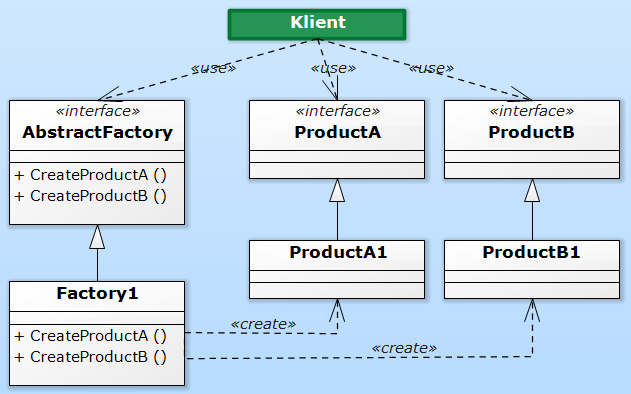
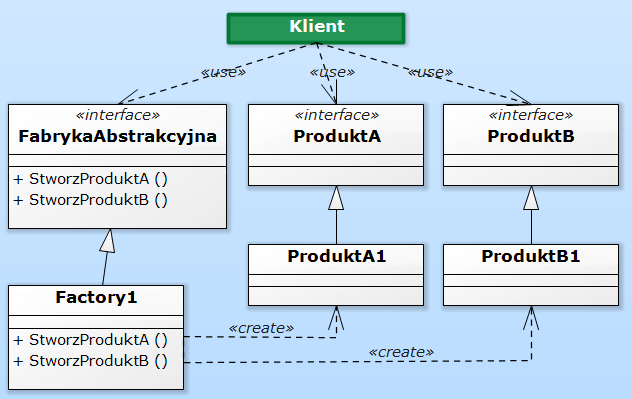
buffor for articles

Changed region(s): [[0.0, 0.0, 0.9937, 1.0], [0.6022, 0.1523, 0.7528, 0.2132], [0.271, 0.1523, 0.3914, 0.2132]]

diff --git a/_drafts/fabryka-abstrakcyjna.md b/_drafts/fabryka-abstrakcyjna.md
@@ -1,6 +1,6 @@
 ---
 layout: post
-title: "Wzorzce projektowe cz.2 - Fabryka Abstrakcyjna"
+title: "Wzorce  projektowe cz.2 - Fabryka Abstrakcyjna"
 feature-img: "assets/img/drafts/abstract-fabric/abstract-fabric.jpeg"
 tags: [Wzorce_projektowe]
 ---
@@ -8,47 +8,47 @@ tags: [Wzorce_projektowe]
 <h4 class="text-success">Fabryka abstrakcyjna (Abstract Fabric)<h4>
 <br>
 <font class="base-font-size">
-&nbsp;Wzorzec projektowy zaliczany do grópy kostrukcyjnych oraz obiektowych. Kluczową różnicą w stosunku do wzorca budowniczy który omówiłem w części pierwszej jest to że we wzorcu fabryki abstrakcyjnej kładziemy nacisk na implementację funkcjonalności a nie na samo tworzeniu obiektów. Funkcjonaności są dostarczane za pomocą interfejsów dlatego fabryka abstrakcyjna nadaje się do implementacji w aplikacjach łączących się ze zdalnym serwerem. 
+&nbsp;Wzorzec projektowy zaliczany do grupy konstrukcyjnych oraz obiektowych. Kluczową różnicą w stosunku do wzorca budowniczy, który omówiłem w części pierwszej, jest nacisk na implementację funkcjonalności, a nie na samo tworzeniu obiektów. Funkcjonalności są dostarczane za pomocą interfejsów, dlatego fabryka abstrakcyjna nadaje się do implementacji w aplikacjach łączących się ze zdalnym serwerem. 
 <br>
-Oczywiście nie jest to jedyny przypadek w którym warto zastosować ten wzorzec projektowy. Przeanalizujmy wspólnie przykład który przygotowałem. 
+Oczywiście nie jest to jedyny przypadek, kiedy warto zastosować ten wzorzec projektowy. Przeanalizujmy wspólnie przykład, który przygotowałem. 
 <br>
 <br>
 </font>
 <h4 class="text-success">Diagram<h4>
 <br>
 <font class="base-font-size">
-&nbsp;Na obrazku poniżej znajduje się wzorzec fabryka abstrakcyjna w formie modelu uml. Już na pierwszy rzut oka widać że komunikacja między klientem a częścią funkcjonalną kodu odbywa się przez warstwę abstrakcjii. Pozwala to bardziej skoncentrować się na implementacji funkcjonalności niż samym dostarczeniu obiektu. Jeżeli teorii masz już dosyć to czas na praktykę. 
-<img class="img-fluid img-thumbnail" src="../../../assets/img/drafts/abstract-fabric/diagram.jpeg" alt="Diagram - budowniczy">
+&nbsp;Na obrazku poniżej znajduje się wzorzec fabryka abstrakcyjna w formie modelu UML. Już na pierwszy rzut oka widać, że komunikacja między klientem a częścią funkcjonalną kodu odbywa się przez warstwę abstrakcji. Pozwala to bardziej skoncentrować się na implementacji funkcjonalności niż samym dostarczeniu obiektu. Jeżeli teorii masz już dosyć to czas na praktykę.
+<img class="img-fluid img-thumbnail" src="../../../assets/img/drafts/abstract-fabric/diagram.jpeg" alt="Diagram - Fabryka Abstrakcyjna">
 <br>
 <br>
 <br>
 </font>
-<h4 class="text-success">Praktyczne wykożystanie wzorca<h4>
+<h4 class="text-success">Praktyczne wykorzystanie wzorca<h4>
 <br>
 <font class="base-font-size">
 &nbsp;Przykładową implementację tego wzorca znajdziesz tutaj:
 <br>
 <a class="base-font-size" href="https://github.com/Rogoda/DesignPattern_AbstractFabric.git">
 https://github.com/Rogoda/DesignPattern_AbstractFabric.git</a>
-<br>Polecenie do przykładu: Stwórz model produkcji smarphonów i notebooków, który będzie można łatwo wrtożyć w różnych fabrykach.
+<br>Polecenie do przykładu: Stwórz model produkcji smartphonów i notebooków, który będzie można łatwo wróżyć w różnych fabrykach.
 <br>
 <br>
 </font>
 <h4 class="text-success">Część abstrakcyjna<h4>
 <br>
 <font class="base-font-size">
-&nbsp;W treści zadania wspomnmiałem że model produkcji ma umożliwić wyprodukowanie smarfphona lub notebooka, dlatego optymistycznie założyłem że każda fabryka kożystająca z naszej procedury produkcji będzie w stanie wyprodukować coś co później nazwimy smartphonem lub notebookiem niezależnie z jakich podzespołów będą składały się te użądzenia. Dlatego dla każdego typu użądzenia stworzę odpowiedni interfejs.
+&nbsp;W treści zadania wspomniałem, że model produkcji ma umożliwić wyprodukowanie smartphona lub notebooka, dlatego optymistycznie założyłem, że każda fabryka korzystająca z naszej procedury produkcji będzie w stanie wyprodukować coś, co później nazwiemy smartphonem lub notebookiem, niezależnie z jakich podzespołów będą składały się te urządzenia. Dlatego dla każdego typu urządzenia stworzę odpowiedni interfejs.
 <br>
 <img class="img-fluid img-thumbnail" src="../../../assets/img/drafts/abstract-fabric/ismartphone.jpeg" alt="ISmartphone">
 <img class="img-fluid img-thumbnail" src="../../../assets/img/drafts/abstract-fabric/inotebook.jpeg" alt="INotebook">
-<br>Idąc dalej tropem wcześniejszego wnioskowania, każda z fabryk może implementować nasz model produkcji co automatycznie prowokuje nas do reprezentowania modelu w postaci abstrakcyjnej.  
+<br>Idąc dalej tropem wcześniejszego wnioskowania, każda z fabryk może implementować nasz model produkcji, co automatycznie prowokuje nas do reprezentowania modelu w postaci abstrakcyjnej.  
 <img class="img-fluid img-thumbnail" src="../../../assets/img/drafts/abstract-fabric/irtvfabric.jpeg" alt="IRtvFabric">
 <br>
 <br>
 </font>
-<h4 class="text-success">Z abstrakcyjnego smartfona nie zadzwonisz<h4>
+<h4 class="text-success">Z abstrakcyjnego smartphona nie zadzwonisz<h4>
 <br>
-<font class="base-font-size">Myślę że to odpowiedni czas na implementacje naszych wirtualnych użądzeń.
+<font class="base-font-size">Myślę, że to odpowiedni czas na implementacje naszych wirtualnych urządzeń.
 <br>
 Przydadzą nam się w fabryce.
 <br>
@@ -60,21 +60,21 @@ Przydadzą nam się w fabryce.
 </font>
 <h4 class="text-success">Mają rozmach skur...<h4>
 <br>
-<font class="base-font-size">&nbsp;Nie śpimy tylko kodzimy, myślę że lepiej zademonstrujemy funkcjonalność modelu tworząc nie jedną a dwie implementacje fabryki, jedną w Chinach drógą w Korei.
+<font class="base-font-size">&nbsp;Nie śpimy tylko kodzimy, myślę, że lepiej zademonstrujemy funkcjonalność modelu, tworząc nie jedną a dwie implementacje fabryki, jedną w Chinach druga w Korei.
 <br>
 <img class="img-fluid img-thumbnail" src="../../../assets/img/drafts/abstract-fabric/chinesefabric.jpeg" alt="Fabric - China">
 <br>
 <img class="img-fluid img-thumbnail" src="../../../assets/img/drafts/abstract-fabric/koreanfabric.jpeg" alt="Fabric - Korea">
 <br>
-&nbsp;Dla każdej fabryki dostosowałem indywidualny sposób wytworzenia naszych użądzeń, zbadaj dokładnie jak to możliwe,ponieważ tu kryje się cała magia abstrakcyjnej fabryki. 
+&nbsp;Dla każdej fabryki dostosowałem indywidualny sposób wytworzenia naszych urządzeń, zbadaj dokładnie jak to możliwe, ponieważ tu kryje się cała magia abstrakcyjnej fabryki.
 <br>
 <br>
 </font>
 <h4 class="text-success">Klient<h4>
 <br>
 <font class="base-font-size">&nbsp;Ostatnim krokiem jest użycie wzorca
-<img class="img-fluid img-thumbnail" src="../../../assets/img/drafts/abstract-fabric/klient.jpeg" alt="Klient">
-<br>Użyłem różnych fabryk do stworzenia nowych obiektów czyli wykorzystaliśmy kreacyjny wzorzec projektowy a oto rezultat naszej pracy:
+<img class="img-fluid img-thumbnail" src="../../../assets/img/drafts/abstract-fabric/program.jpeg" alt="Klient">
+<br>Użyłem różnych fabryk do stworzenia nowych obiektów, czyli wykorzystaliśmy kreacyjny wzorzec projektowy a oto rezultat naszej pracy:
 <br>
 <img class="img-fluid img-thumbnail" src="../../../assets/img/drafts/abstract-fabric/cmd.jpeg" alt="Cmd">
 <br>

diff --git a/_drafts/metoda-wytworcza.md b/_drafts/metoda-wytworcza.md
@@ -1,6 +1,6 @@
 ---
 layout: post
-title: "Wzorzce projektowe cz.3 - Metoda Wytwórcza"
+title: "Wzorce projektowe cz.3 - Metoda Wytwórcza"
 feature-img: "assets/img/drafts/fabric-method/fabric-method.jpeg"
 tags: [Wzorce_projektowe]
 ---
@@ -8,7 +8,70 @@ tags: [Wzorce_projektowe]
 <h4 class="text-success">Metoda wytwórcza (Factory Method)<h4>
 <br>
 <font class="base-font-size">
-&nbsp;
+&nbsp;Pierwszy wzorzec klasowy w naszej serii nazywany jest metodą wytwórczą i jest zaliczany to wzorców kreacyjnych.
+<br>
+Wzorce klasowe w przeciwieństwie do obiektowych przedstawiają stałe związki między klasami, dlatego nie musisz zastanawiać się jak użyć wzorca w projekcie, ponieważ podkreślam jeszcze raz, związki są stałe.
+<br>
+<img class="img-fluid img-thumbnail" src="../../../assets/img/drafts/fabric-method/diagram.jpeg" alt="Diagram - Metoda Wytwórcza">
+<br>
+ Rozwiążmy wspólnie zadanie: Stwórz kosz, do którego będziemy mogli wrzucać owoce.
+<br>
+<br>
+</font>
+<h4 class="text-success">Przykład<h4>
+<br>
+<font class="base-font-size">
+&nbsp;Polecenie wspomina o koszu i o owocach, koszem będzie lista owoców a owoce, które będziemy do niego wrzucać, będziemy tworzyć, korzystając ze wzorca metody wytwórczej. Kod wykorzystany w przykładzie jest dostępny tutaj:
+<br>
+<a class="base-font-size" href="https://github.com/Rogoda/DesignPattern_FabricMethod.git">
+https://github.com/Rogoda/DesignPattern_FabricMethod.git</a>
+<br>
+<br>
+</font>
+<h4 class="text-success">Jakie owoce ?<h4>
+<br>
+<font class="base-font-size">
+&nbsp;Na wstępie zadałem sobie pytanie, jakie owoce powinny być dostępne i doszedłem do wniosku, że ciekawym rozwiązaniem będzie zorganizować sobie wszystkie owoce za pomocą enuma
+<br>
+<img class="img-fluid img-thumbnail" src="../../../assets/img/drafts/fabric-method/fruitname.jpeg" alt="FruitName">
+<br>
+<br>
+</font>
+<h4 class="text-success">Miejsce dla abstrakcji<h4>
+<br>
+<font class="base-font-size">
+&nbsp;Panie i Panowie przedstawiam wam abstrakcje:
+<br>
+<img class="img-fluid img-thumbnail" src="../../../assets/img/drafts/fabric-method/ifruit.jpeg" alt="IFruit">
+<br>
+&nbsp;Nic wielkiego każdy owoc będzie zawierał nazwę. Podobne rozwiązanie zastosowaliśmy w poprzednich wzorcach.
+Potrzebny jest nam kreator, w tym celu utworzymy sklep.
+<br>
+<img class="img-fluid img-thumbnail" src="../../../assets/img/drafts/fabric-method/ishop.jpeg" alt="IShop">
+<br>
+<br>
+</font>
+<h4 class="text-success">Pora przejść do konkretów<h4>
+<br>
+<font class="base-font-size">
+<img class="img-fluid img-thumbnail" src="../../../assets/img/drafts/fabric-method/fruit.jpeg" alt="Fruit">
+<br>
+<img class="img-fluid img-thumbnail" src="../../../assets/img/drafts/fabric-method/shop.jpeg" alt="Shop">
+<br>
+&nbsp;Ciekawe rozwiązanie prawda, świetnie, teraz widzisz podobieństwo do poprzednich dwóch wzorców projektowych. Zarówno budowniczy, jak i fabryka abstrakcyjna tworzą swoje obiekty w podobny sposób, wykorzystują kreator, który posiada metodę zwracającą żądany obiekt. Tę zależność przedstawia wzorzec metoda wytwórcza. Jest to stała zależność, dlatego ten wzorzec zaliczamy do klasowych.
+<br>
+<br>
+</font>
+<h4 class="text-success">Rezultat<h4>
+<br>
+<font class="base-font-size">
+&nbsp;W ostatnim kroku utworzymy koszyk, do którego wrzucimy nasze owoce.
+<br>
+<img class="img-fluid img-thumbnail" src="../../../assets/img/drafts/fabric-method/program.jpeg" alt="Klient">
+<br>
+Nasza implementacja zwraca taki oto rezultat
+<br>
+<img class="img-fluid img-thumbnail" src="../../../assets/img/drafts/fabric-method/cmd.jpeg" alt="CMD">
 <br>
 <br>
 </font>

diff --git a/_posts/2018-08-16-budowniczy.md b/_posts/2018-08-16-budowniczy.md
@@ -1,6 +1,6 @@
 ---
 layout: post
-title: "Wzorzce projektowe cz.1 - Budowniczy"
+title: "Wzorce  projektowe cz.1 - Budowniczy"
 feature-img: "assets/img/posts/2018-08-16-budowniczy/budowniczy.jpeg"
 tags: [Wzorce_projektowe]
 ---
@@ -8,7 +8,7 @@ tags: [Wzorce_projektowe]
 <h4 class="text-success">Budowniczy (Builder)<h4>
 <br>
 <p class="base-font-size">Diagram wzorca projektowego budowniczy wygląda następująco:</p>
-<img class="img-fluid img-thumbnail" src="../../../assets/img/posts/2018-08-16-budowniczy/diagram.jpeg" alt="Diagram - budowniczy">
+<img class="img-fluid img-thumbnail" src="../../../assets/img/posts/2018-08-16-budowniczy/diagram.jpeg" alt="Diagram - Budowniczy">
 <br>
 <font class="base-font-size">
 &nbsp;Wzorzec projektowy „Budowniczy” jest wzorcem obiektowym i należy do wzorców kreacyjnych. Budowniczy określa związek między konkretnymi sposobami tworzenia obiektów (produktów) a obiektem agregującym te sposoby symbolizującym budowniczego.

diff --git a/_drafts/prototype.md b/_drafts/prototype.md
@@ -1,0 +1,14 @@
+---
+layout: post
+title: "Wzorce projektowe cz.4 - Prototyp"
+feature-img: "assets/img/drafts/prototype/prototype.jpeg"
+tags: [Wzorce_projektowe]
+---
+
+<h4 class="text-success">Prototyp (Prototype)<h4>
+<br>
+<font class="base-font-size">
+&nbsp;
+<br>
+<br>
+</font>
